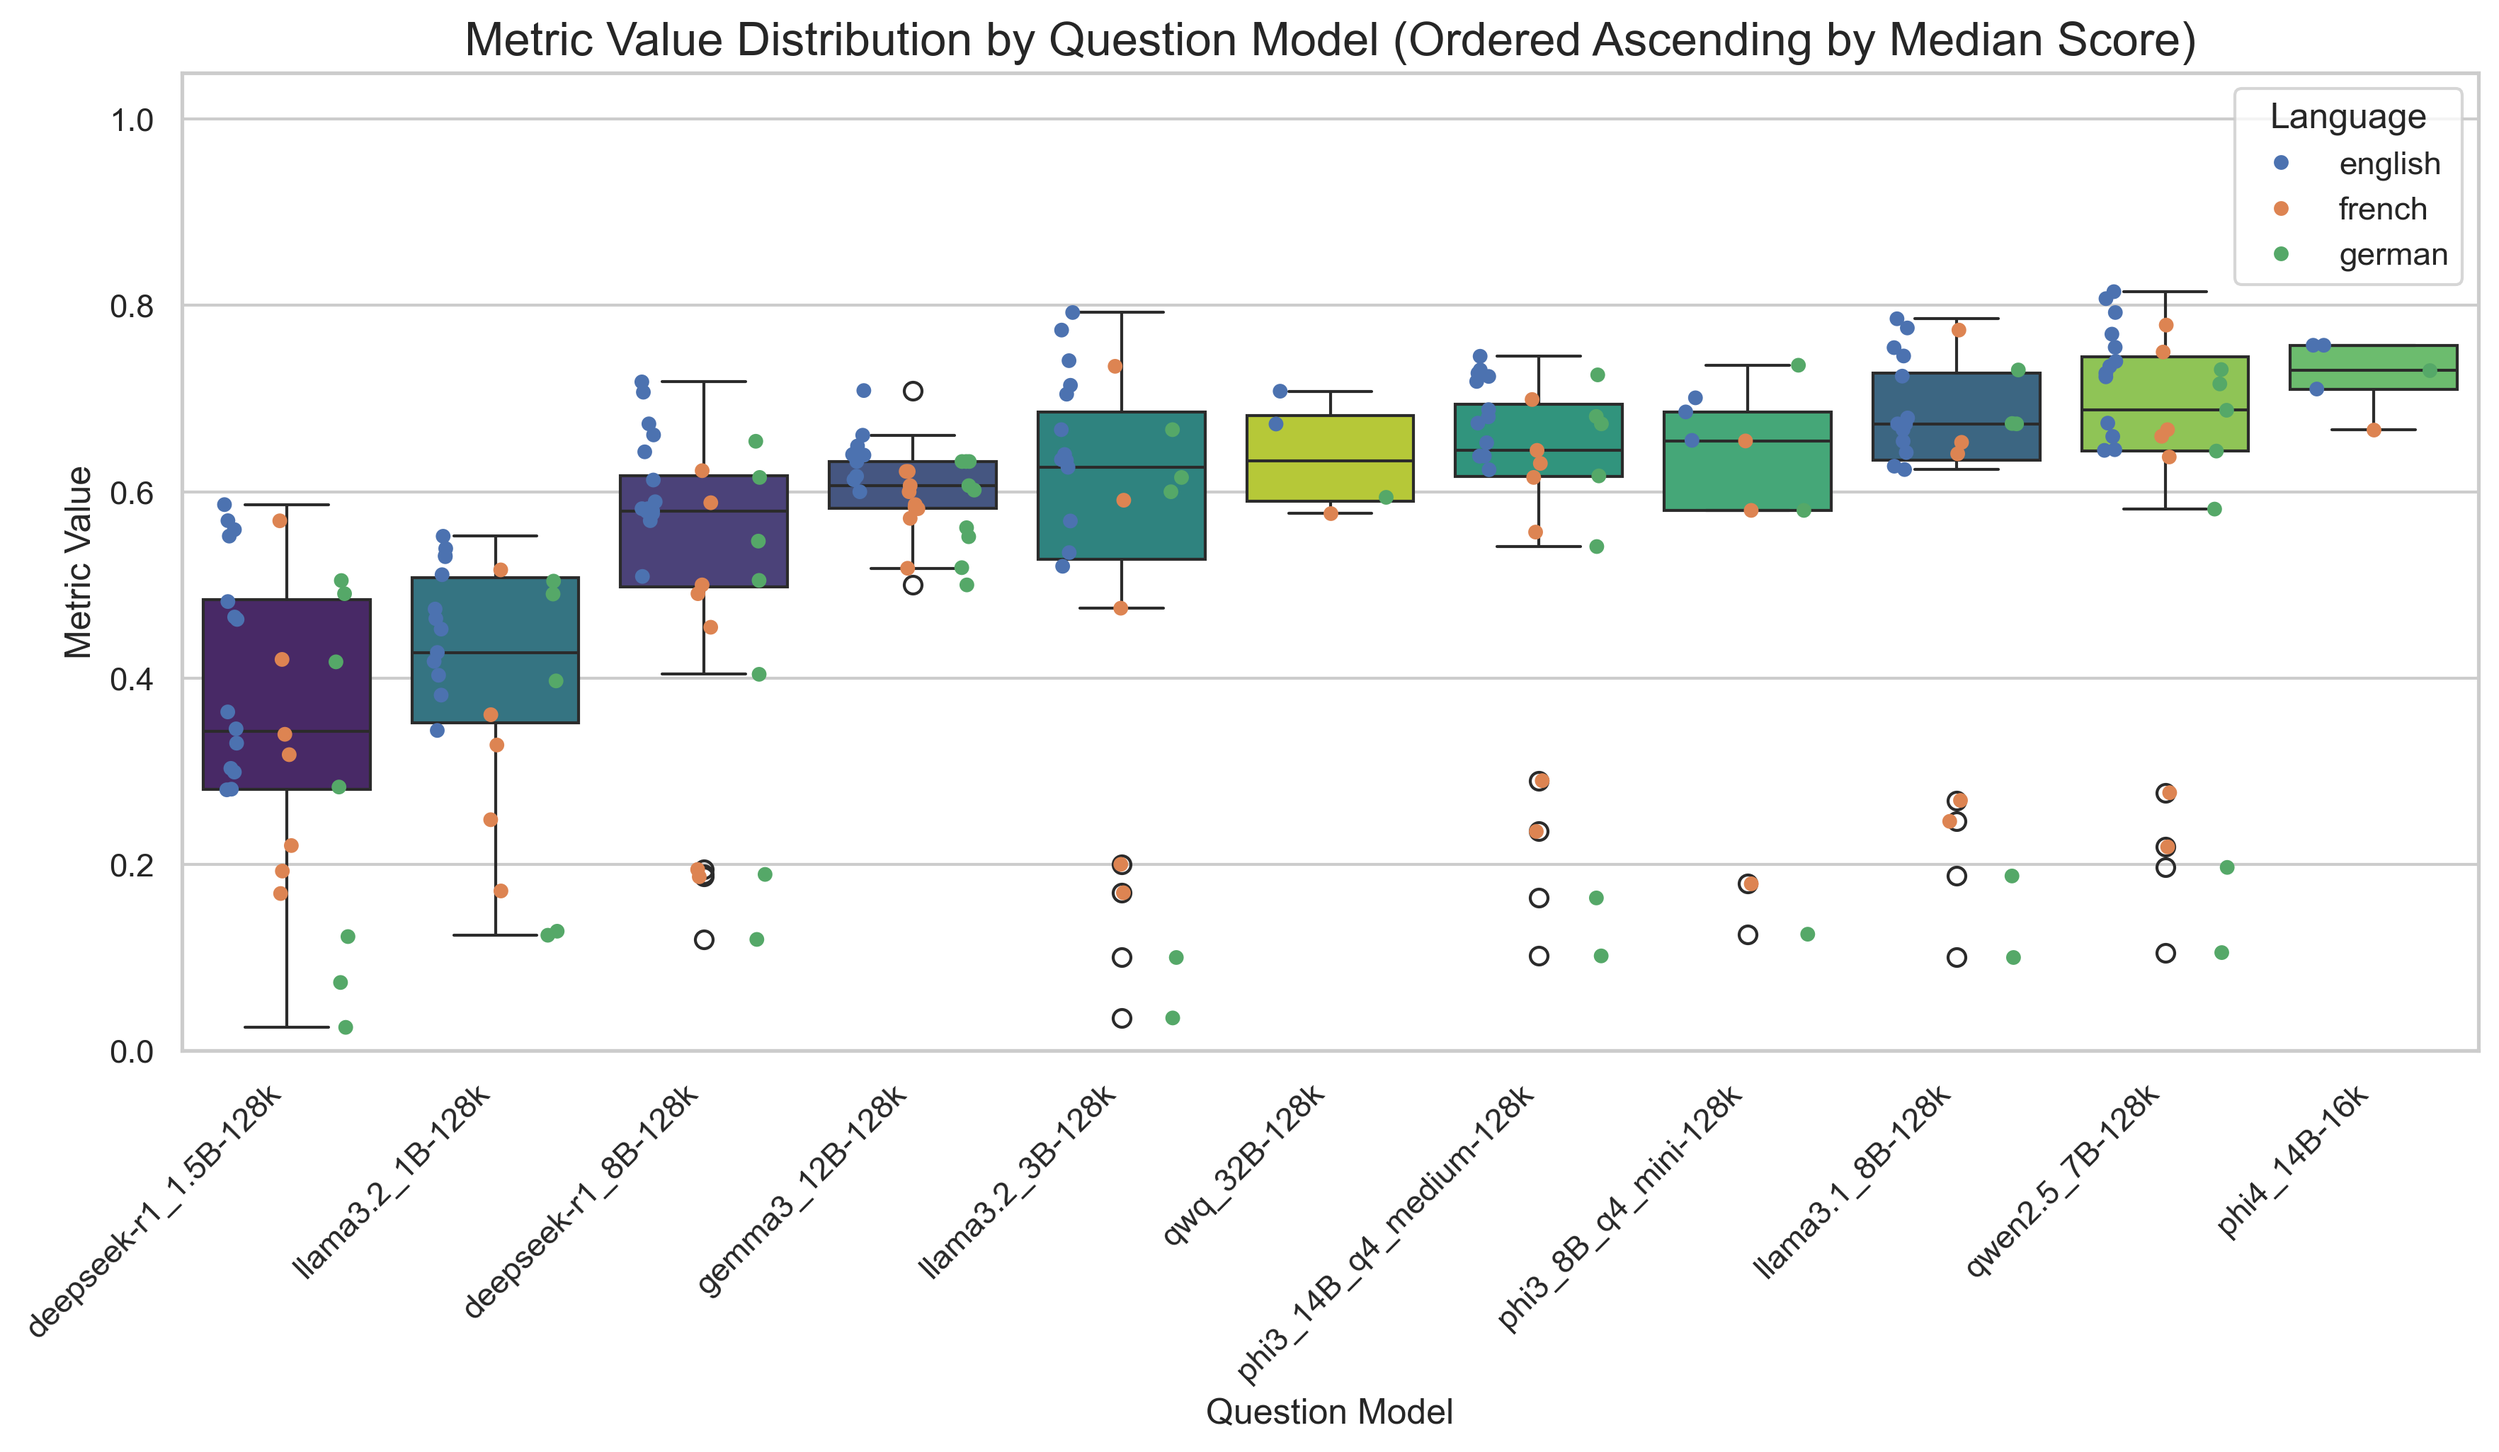
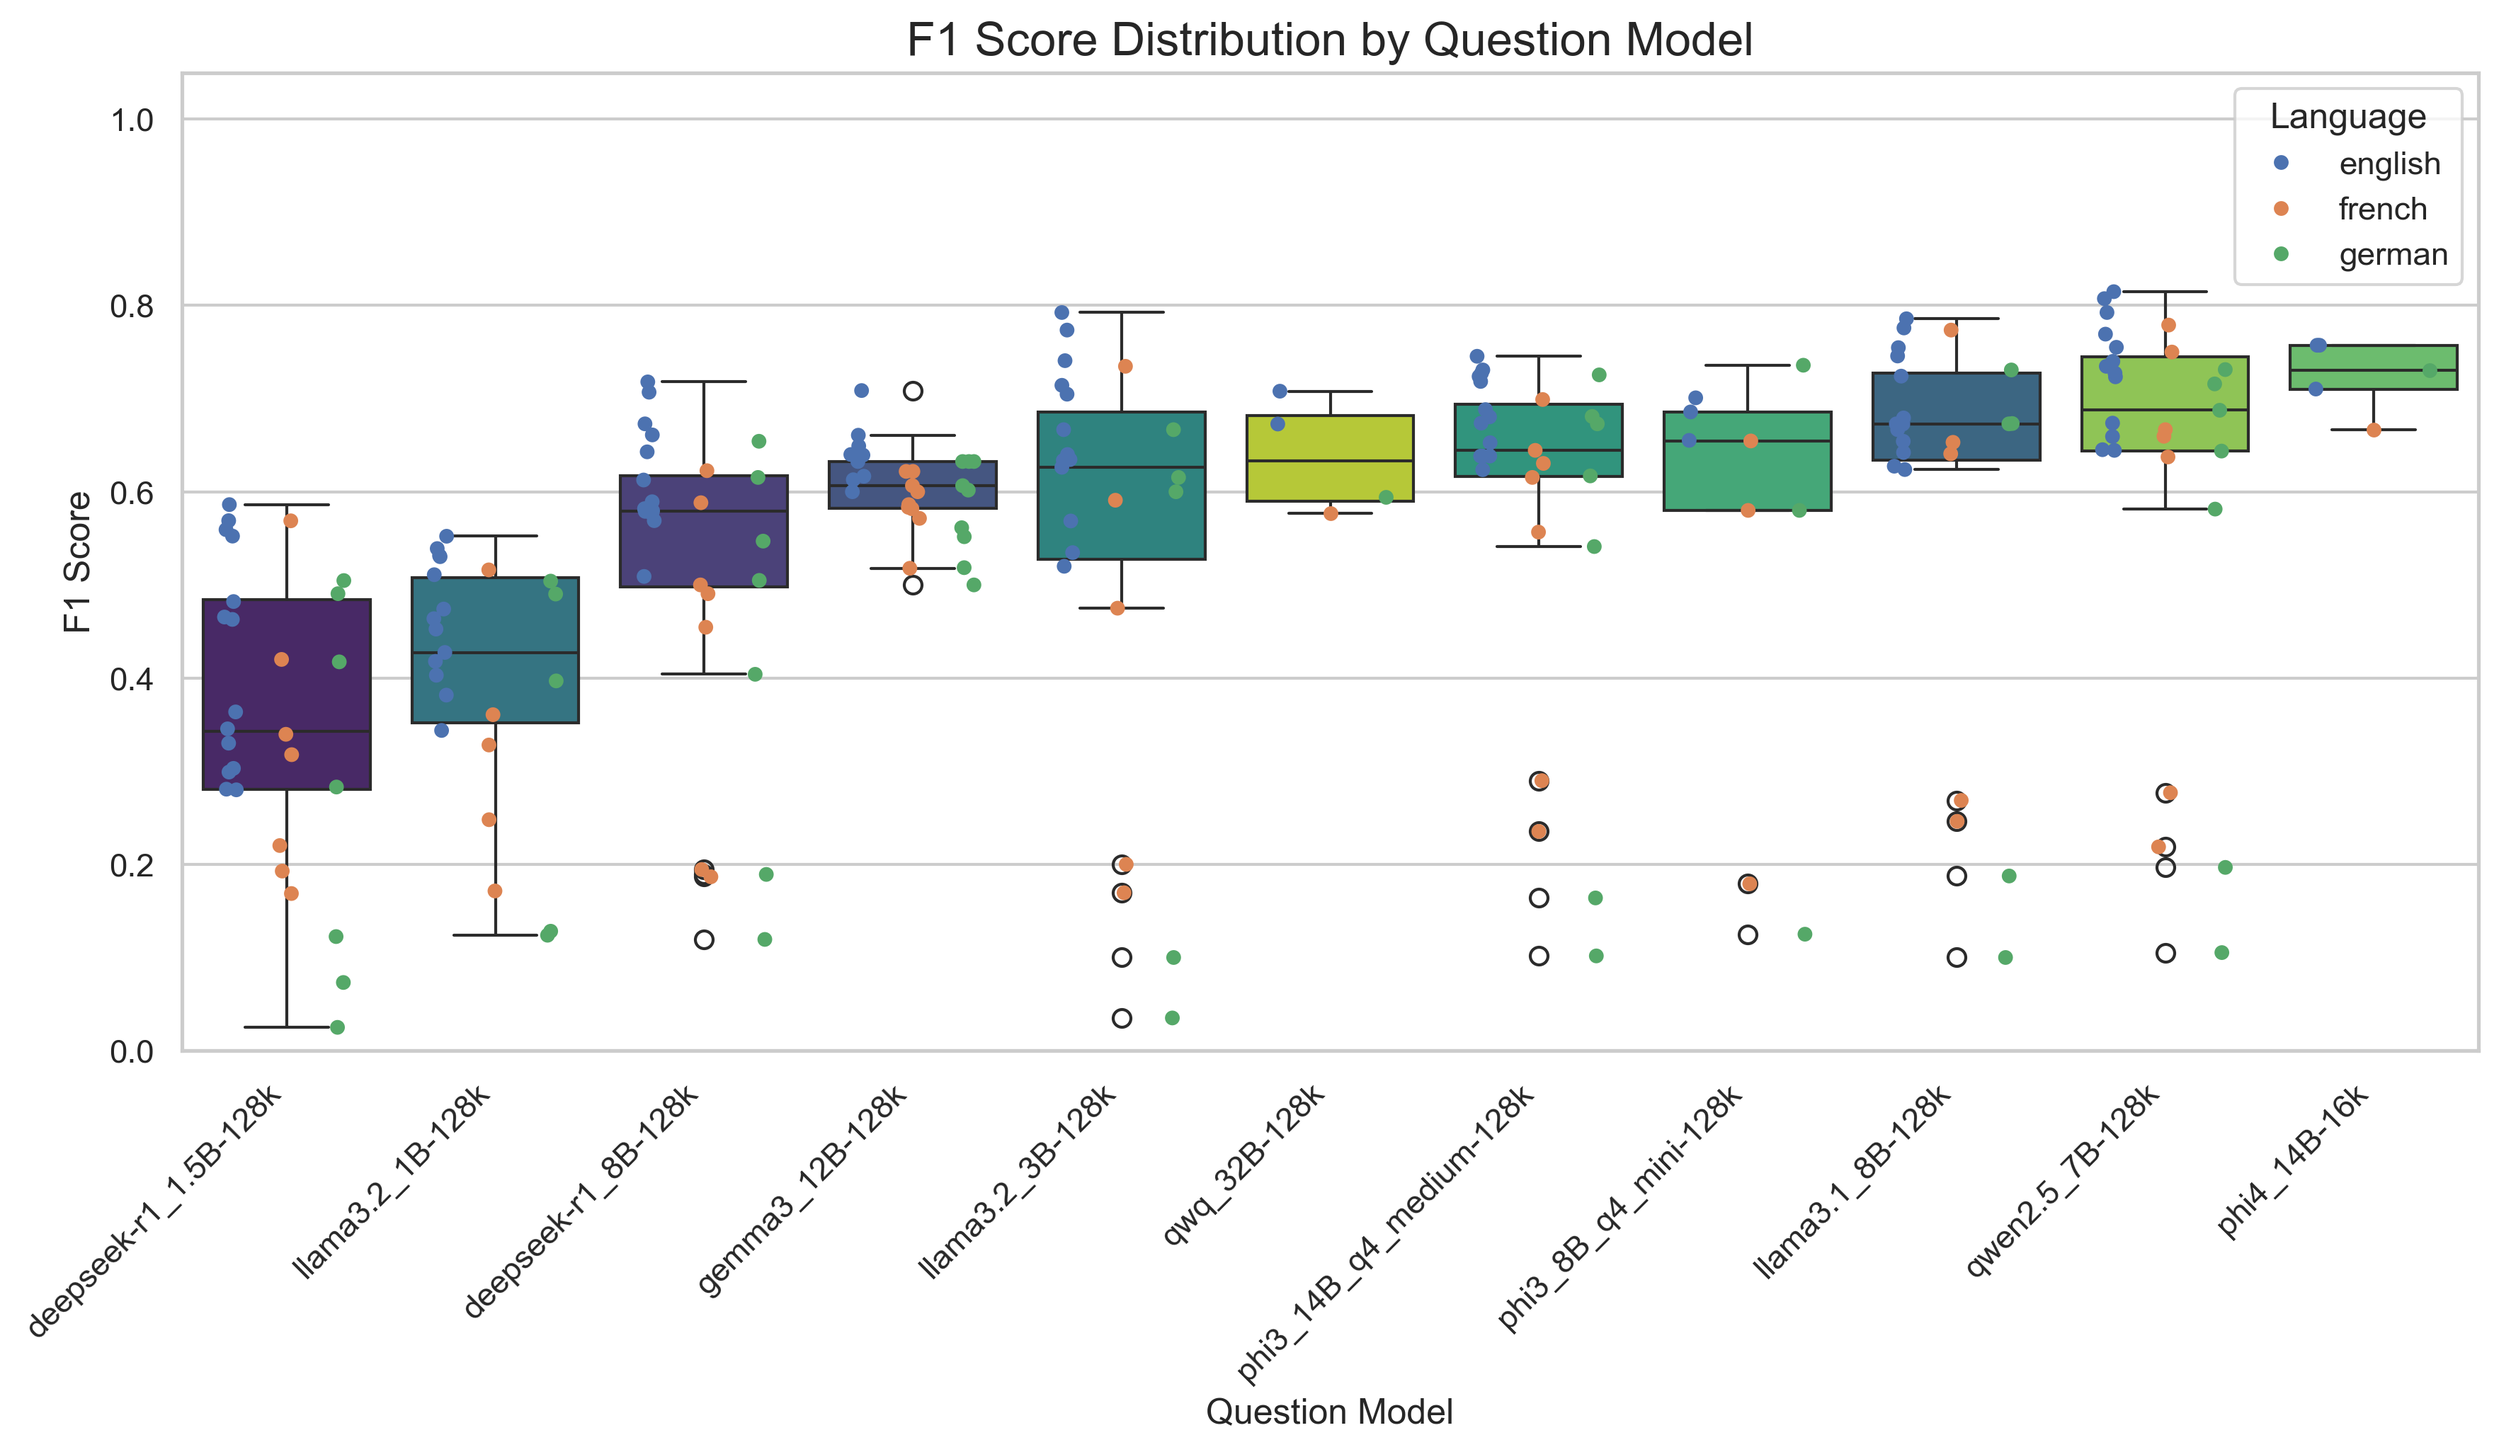
feat: Enhance F1 score boxplot with custom title and y-axis label

diff --git a/RAG/visualization/plot_scripts/boxplot_generators.py b/RAG/visualization/plot_scripts/boxplot_generators.py
@@ -31,10 +31,24 @@ def generate_f1_boxplot(
         print("Warning: No F1 score data found. Skipping F1 boxplot.")
         return
 
+    # --- Construct Title ---
+    # We explicitly set the title here, overriding the default in create_f1_boxplot
+    group_by_title = group_by.replace("_", " ").title()
+    # NOTE: We assume the default sort_by_median_score=True for the suffix,
+    # as this generator doesn't expose that option. If sorting is disabled
+    # elsewhere, this suffix might be inaccurate, but it matches the previous default behavior.
+    # A more robust solution might involve returning the sort status from create_f1_boxplot,
+    # but that adds complexity.
+    title_suffix = ""
+    plot_title = f'F1 Score Distribution by {group_by_title}{title_suffix}'
+
+
     boxplot_args: Dict[str, Any] = {
         "data": df_f1,
         "group_by_column": group_by,
-        "score_column": "metric_value",
+        "score_column": "metric_value", # Still needed for y-axis data
+        "ylabel": "F1 Score",           # Set y-axis label explicitly
+        "title": plot_title,            # Set title explicitly
         "hue_column": None, # Default
         "hue_order": None, # Default
         # output_path will be set below
